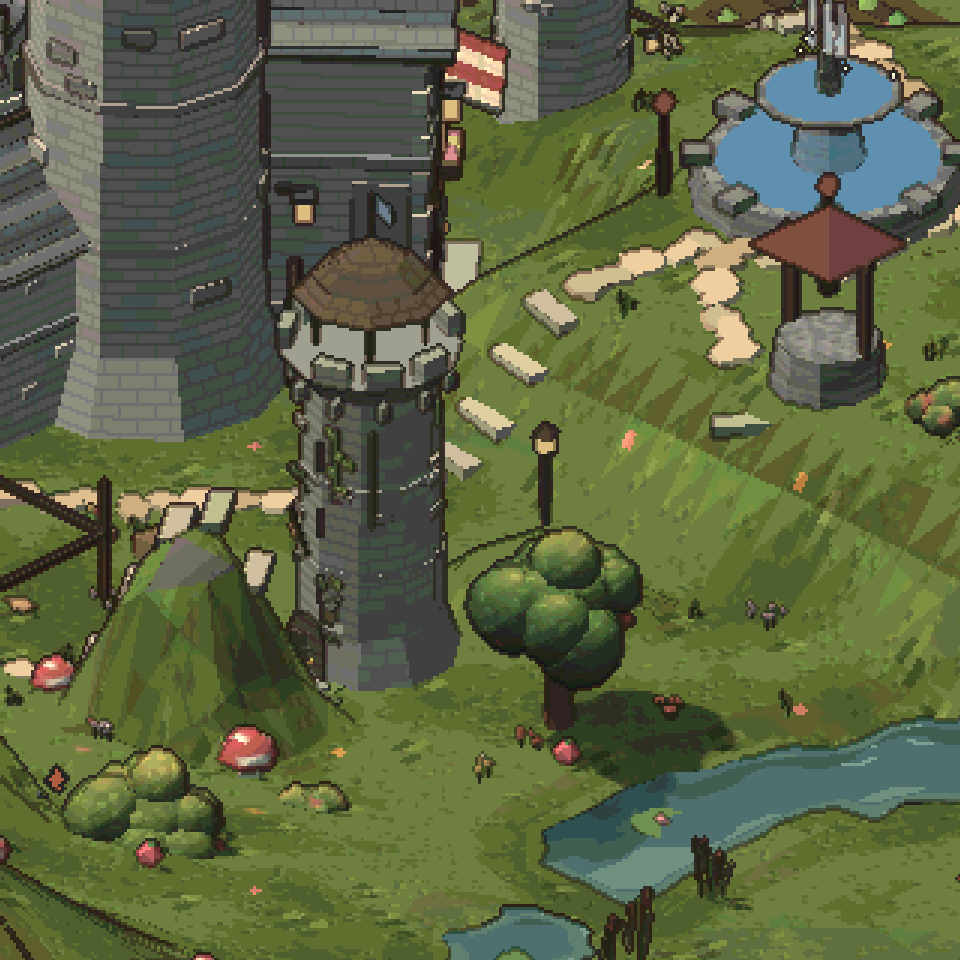
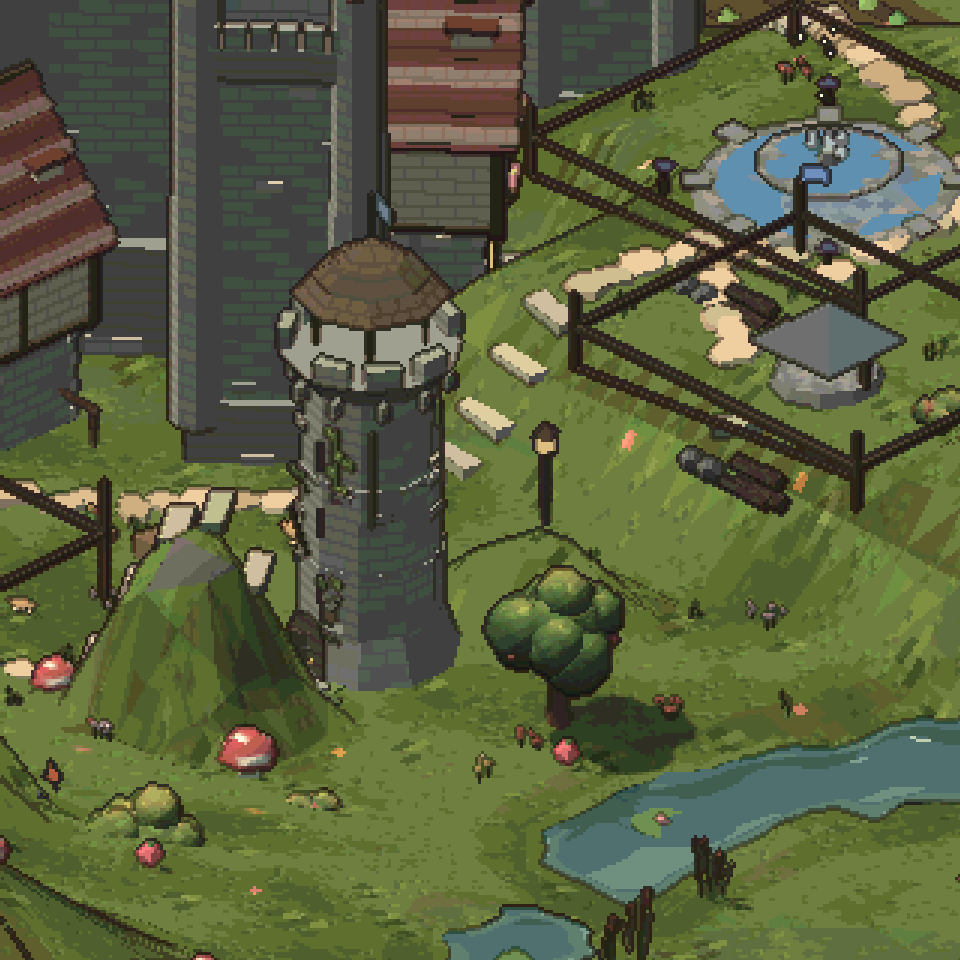
木を もう 一段 小さく（0.58）・城攻めの 体力ゲージ
Claude-Session: https://claude.ai/code/session_0123UptJxvfEXsQxns9cL3Y3

diff --git a/src/world/parts/ui.ts b/src/world/parts/ui.ts
@@ -728,7 +728,9 @@ export function starMark(this: World, x: number, y: number) {
 /** ボスの大きな HP バー（画面の上のまんなか）。ボスが出ている間だけ */
 export function drawBossBar(this: World) {
   const boss = this.creatures.find((c) => c.sp.boss && this.alive(c))
-  if (!boss) return
+  // 城攻めの 間は 敵の 城の 体力（ボスが いれば ボスが 先）
+  const sb = boss ? null : this.siegeBar()
+  if (!boss && !sb) return
   const g = this.hudCtx
   const w = 208
   const x = Math.round((RES.w - w) / 2)
@@ -737,9 +739,14 @@ export function drawBossBar(this: World) {
   g.fillRect(x, y, w, 25)
   g.strokeStyle = '#ff9a3a'
   g.strokeRect(x + 0.5, y + 0.5, w - 1, 24)
-  this.text(`ボス ${this.nm(boss)}`, x + 8, y + 3, '#ffd0a0', 10)
-  this.text(`${Math.max(0, Math.ceil(boss.hp))}/${boss.maxHp}`, x + w - 8, y + 4, '#ffffff', 8, 'right')
-  const r = Math.max(0, Math.min(1, boss.hp / boss.maxHp))
+  if (boss) {
+    this.text(`ボス ${this.nm(boss)}`, x + 8, y + 3, '#ffd0a0', 10)
+    this.text(`${Math.max(0, Math.ceil(boss.hp))}/${boss.maxHp}`, x + w - 8, y + 4, '#ffffff', 8, 'right')
+  } else {
+    this.text('てきの しろ', x + 8, y + 3, '#ffd0a0', 10)
+    this.text(`${Math.ceil(sb!.k * 100)}%`, x + w - 8, y + 4, '#ffffff', 8, 'right')
+  }
+  const r = boss ? Math.max(0, Math.min(1, boss.hp / boss.maxHp)) : sb!.k
   g.fillStyle = '#10122a'
   g.fillRect(x + 6, y + 15, w - 12, 7)
   g.fillStyle = '#3a2030'

diff --git a/src/world/flora.ts b/src/world/flora.ts
@@ -10,7 +10,7 @@ import { swayify } from './fxprops'
  * kind：round = まるい木 / bloom = 花の咲く木 / conifer = 針葉樹 / bush = しげみ（花つき）
  */
 /** 木 ぜんたいの 大きさ（1 = 2026-11-16 までの 大きさ） */
-export const TREE_SCALE = 0.72
+export const TREE_SCALE = 0.58
 export type TreeKind = 'round' | 'bloom' | 'conifer' | 'bush'
 
 /** 色の組（暗い → 明るい の 3 色 + 花の色）。ステージごとに かえられる */

diff --git a/CLAUDE.md b/CLAUDE.md
@@ -115,7 +115,7 @@ Three.js + TypeScript + Vite + vite-plugin-pwa。机の上に浮かぶ 3D の本
 - データの書き出し・読み込み・やり直しは `src/backup.ts`（コードは `PULSAR1:` + base64 の JSON）。設定のキーを増やしたら `KEYS` にも足す。読み込み・やり直しの前は `world.saveLocked = true` にして上書きを防ぐ。起動時に `navigator.storage.persist()` を頼む
 - **音**：音声ファイルは使わず全部 WebAudio。BGM は `music.ts` が `World.musicState()`（`night / weather / stage / army / villageLv`）+ 本体側の夕方フラグから曲を選び、変わるとクロスフェード（昼・夕・夜・敵軍・天気ごとのアレンジ、ステージごとの調と音色は `STAGE_MUSIC`。ステージを足したら表に 1 行。表にない番号は 0 番）。勝利 `victory` / 世代交代 `generation` は短い曲（BGM が切れていれば効果音）。効果音は `main.ts` の `SFX` 表 + `SFX_GAP`（同じ音のレート制限）。「音」ボタンはマスター音量、きせかえの「おと」で BGM / 効果音を別々に入り切り（`pulsar-bgm` / `pulsar-sfx`、`backup.ts` の `KEYS` にも入っている）。最初のタップ・キーのあとに始まり、タブが裏に回ると止まる。曲の確認は `__pulsar.renderMusic(state, 秒)`（OfflineAudioContext で書き出す）
 - **ドットの 感じ（2026-11-16）**：箱庭は 320×320 で 描いて 3 倍に のばす。光を うける 面には 世界の 位置で きまる 明暗の つぶ（`psx.ts` の `uGrain`：0.07 マスの 点 + 0.21 マスの むら。ジオラマで 描く 間だけ 1）。地面は なめらかな 法線（三角ごとの つぎはぎを 出さない）・面ごとの 色の ゆらぎは 小さく。草と 砂の 模様は 昔の デジタルの 格子線を やめ、`clumps()`（こい / うすい かたまり）+ `tufts()`（草の 穂）+ 小さな 花。仕上げは 色数 16 段・すこし 暗く くすむ・輪郭を こく。いぬの 3D は なめらかな 面（角ばった 面は 模型に 見えた）
-- **絵の 質感は 平らな 塗りと 手描きの 線（2026-11-17・見本は 明るい ドット絵の 町の 動画）**：カメラ・色・町の 作りは そのままで 質感だけ かえた。物の 面の 細かい つぶ（`uGrain`）は 0、減色の 網点（`bayer4`）は 使わない（四捨五入で 16 段・ぬけた 明るい 点の ぶん 1.045 倍）。輪郭は 物の まわりを こげ茶の 線（`mix(c * 0.35, #2b1c14, 0.55)`）、深さの 折れ目（2 回 微分 > `e × 0.22`）に うすい 線（屋根の 棟・かべと 屋根の さかい）。手続きテクスチャは ミップマップで ならす（小さく 見える 時の ひっかき傷の 筋を 消す）。草地の 色は 三角ごとの ばらつきを やめ、場所で きまる 大きな むら（`terrain()`）。くらべた 絵は `docs/media/texture-before-after.png` / `texture-cats.png`。上の「ドットの 感じ」の つぶと 網点は この 時に やめた。**描きこみ**（同じ日・きれいな 動画で 見なおして）：見本は 面も ドットで 描きこんで ある ので、建物の 材質（`sharedLam` = `psx(…, { build: true })`）に 世界の 位置で きまる 模様 `PATTERN`（`psx.ts`）：かべ = れんが / 板の 段（目地 0.17 マス・つなぎ目 互いちがい・段ごとの 色の ゆらぎ）/ 屋根 = かわらの 段（0.14 マス・下の ふち 暗く 上 明るく）。線の 太さは `fwidth` で 1 ドット 以上。ジオラマで 描く 間だけ（`toonU.uPat`）。地面は 草の 穂の ドット（0.075 マスの 升目で まばらに 明るい 穂と その 下の こい 根もと・画質「低」は なし）。絵は `docs/media/texture-bricks.png` / `texture-tufts.png`。**木も ポリゴン感を なくした**（同じ日）：`flora.ts` の `Builder.add(…, 'blob' | 'cone', soft)` は 面ごとの 色を やめ、かたまりを 球（針葉樹は 円すい）と して 法線と 頂点の 色を きめる（なめらかな 陰・左上が 明るい）。表面は 向きで きまる でこぼこ（12%）で ふちの 直線を くずす。まんなかの 大きな かたまりは 分割 2。花は 位置の ハッシュで 頂点ごとに（面の 形が 出ない）。葉の 材質は `psx(…, { leaf: true })` の `LEAF`（`psx.ts`）：0.2 マスの 3D の 点の 集まりで 葉の 房に わけ、房の 上は 明るく・下は 暗く・さかいに かげの 線。置き物の「なえ」が そだった 木も `leaves()` で 同じ 葉に。絵は `docs/media/trees-leafy.png`。木 ぜんたいは `TREE_SCALE`（0.72）で 小さめに（`tree()` は 外の 箱を 返し、中の 箱に 縮尺。呼ぶ 側が `add` する 木の実は 中の 箱に 入る。絵は `docs/media/trees-small.png`）
+- **絵の 質感は 平らな 塗りと 手描きの 線（2026-11-17・見本は 明るい ドット絵の 町の 動画）**：カメラ・色・町の 作りは そのままで 質感だけ かえた。物の 面の 細かい つぶ（`uGrain`）は 0、減色の 網点（`bayer4`）は 使わない（四捨五入で 16 段・ぬけた 明るい 点の ぶん 1.045 倍）。輪郭は 物の まわりを こげ茶の 線（`mix(c * 0.35, #2b1c14, 0.55)`）、深さの 折れ目（2 回 微分 > `e × 0.22`）に うすい 線（屋根の 棟・かべと 屋根の さかい）。手続きテクスチャは ミップマップで ならす（小さく 見える 時の ひっかき傷の 筋を 消す）。草地の 色は 三角ごとの ばらつきを やめ、場所で きまる 大きな むら（`terrain()`）。くらべた 絵は `docs/media/texture-before-after.png` / `texture-cats.png`。上の「ドットの 感じ」の つぶと 網点は この 時に やめた。**描きこみ**（同じ日・きれいな 動画で 見なおして）：見本は 面も ドットで 描きこんで ある ので、建物の 材質（`sharedLam` = `psx(…, { build: true })`）に 世界の 位置で きまる 模様 `PATTERN`（`psx.ts`）：かべ = れんが / 板の 段（目地 0.17 マス・つなぎ目 互いちがい・段ごとの 色の ゆらぎ）/ 屋根 = かわらの 段（0.14 マス・下の ふち 暗く 上 明るく）。線の 太さは `fwidth` で 1 ドット 以上。ジオラマで 描く 間だけ（`toonU.uPat`）。地面は 草の 穂の ドット（0.075 マスの 升目で まばらに 明るい 穂と その 下の こい 根もと・画質「低」は なし）。絵は `docs/media/texture-bricks.png` / `texture-tufts.png`。**木も ポリゴン感を なくした**（同じ日）：`flora.ts` の `Builder.add(…, 'blob' | 'cone', soft)` は 面ごとの 色を やめ、かたまりを 球（針葉樹は 円すい）と して 法線と 頂点の 色を きめる（なめらかな 陰・左上が 明るい）。表面は 向きで きまる でこぼこ（12%）で ふちの 直線を くずす。まんなかの 大きな かたまりは 分割 2。花は 位置の ハッシュで 頂点ごとに（面の 形が 出ない）。葉の 材質は `psx(…, { leaf: true })` の `LEAF`（`psx.ts`）：0.2 マスの 3D の 点の 集まりで 葉の 房に わけ、房の 上は 明るく・下は 暗く・さかいに かげの 線。置き物の「なえ」が そだった 木も `leaves()` で 同じ 葉に。絵は `docs/media/trees-leafy.png`。木 ぜんたいは `TREE_SCALE`（0.58）で 小さめに（`tree()` は 外の 箱を 返し、中の 箱に 縮尺。呼ぶ 側が `add` する 木の実は 中の 箱に 入る。絵は `docs/media/trees-small.png`）
 - **夜の 光だまりと 町の 小物（2026-11-16）**：`updateLightPools()`（`parts/update.ts`）が 1 秒ごとに 見ている 所に 近い 光の 元（城の まわり 4 か所・街灯 = `decor.userData.lamps`・ごはんや・いちば・みはりとう・とりで）を えらび、点の 光（`World.pools`・高 6 / 低 2・数は かえない）を 置く。夜・雨・ひのこで ともる（ゆらめき あり）。ランタンと たき火は 置き物が 自分の 光を もつ。**かざり**（`decor.ts`）は 城も 節（`house: true`・大きい 城は 小物 12・街灯を 先に）に して、町の まわりに 花の かたまり（kind 6）と 草の 株（kind 7）を ちらす（城 26 / 建物 5・画質「低」は 半分）。かざりの 作りなおしの 目じるしに 城の 大きさも 入れた
 - **木の 葉は かたまりごとに 1 ドット ゆれる（2026-11-16・ドット絵の 森の 作り方）**：`flora.ts` の `Builder.add(…, [位相, 大きさ])` が 葉の かたまりごとに 頂点の 属性 `aClump` を 入れ、葉の 材質は `psx(…, { clump: true })`。`fx.ts` の `CLUMP_BODY`（SpriteCook の 記事「pixel art trees move in the wind」の 考え方）：幹は うごかさない（`swayify(g, 0)`）。かたまりは ドット単位で「とまる → 上 → 右上 → 右 → もどる」の ループ（1 周 1.54 秒・位相は 風に そった 位置 / 69 ドット = 波が 木から 木へ わたる）。風は 地図を よこぎる 3 つの 突風（20 秒の くりかえし・天気の 風 `uWind` で つよく）で、突風の 外は ほぼ とまる・中は 2〜3 ドットに ひろがり 風下へ かたむく。ポーズを かえるのは 1 秒に 10 回。`aClump.y` = まんなか 0.35 〜 そと 1（針葉樹は 上の 段ほど 大きい）。1 ドット ≒ 0.05 マス・画質「低」は なし。葉の 色は 4 色（下 = 深い 青緑の かげ / 上 = 日の あたる 黄みどり）
 - **水べ（2026-11-16・SpriteCook の 記事「pixel art pond with reflections and ripples」の 考え方）**：`src/world/pond.ts` の `bakePond()` が ステージを 読む 時に 1 回、0.5 マスの 升目の テクスチャ（`fxU.uPond`）を 焼く：R = 岸からの 距離（水 ＋ / 陸 −）・G / B = 木（`tree()` の `userData.tree`）の 葉の 上と 下の 高さ・A = 池や 川 / 海。水の かたちは ステージの 水面（`waterSurface()` の 材質の `userData.water`）と `heightAt` から 決め、丸い 水面は かくして 升目から ひとつづきの 水面 `pond-water` を 作る（坂の 川の 継ぎ目が 消える）。`waterSurface()` は 10 色の 組（`RAMP_POND` / `RAMP_SEA`）から えらぶだけで 色を まぜない：深さ（岸から 遠いほど 暗い）・空の 光（奥の 岸から 手前へ 明るく）・木の 映りこみ（カメラと 反対へ 30 歩 たどり、葉に あたれば 暗い 3 段・行ごとに 1 ドット ゆれる）・奥の 岸の 暗い 線と 草の 映り・手前の 岸の 浅い 色と 打ちよせる 点線（ふち ぜんぶは 光らせない）・きらめき（のびて ちぢむ 横線）・水てきの 輪（5 コマ）・雨の 波紋。ドットは 世界に はりついた 画面の 格子（`viewMatrix` と 投影から）、ループは 5 秒。岸の 形は 焼いた 距離 − ゆらぎで `discard`（地形の 三角で まっすぐに ならない）。地面は 水の 中の 頂点を 0.1 下げ（`fx.ts`）、岸から 0.5 マスは ぬれて 暗い。岸に あし（がまの ほ）・池に はすの 葉（`shoreProps()`・海べは なし・画質「低」は 半分）。絵は `docs/media/pond-water.png` / `pond-river.png` / `pond-rain.png`
@@ -123,7 +123,7 @@ Three.js + TypeScript + Vite + vite-plugin-pwa。机の上に浮かぶ 3D の本
 - **キャラを 3D に する ためし（2026-11-16）**：建物と 同じ「角ばった 低ポリを ドット化」で 絵を そろえる 方針（参考に した 動画は 夜の 農家の ドット絵：キャラも 建物も 同じ 3D を ドット化・光だまり・小物が 多い）。まず いぬの 1 本道 ワンコ → キバル → ガルフ → ロウガ（`families.ts` の EVOLVE を 上書き・フワン / マモールは 古い セーブだけ）を `models.ts` の `pupBlob()` / `dogRig(k, Dog)`（`Kit.flat` = 面ごとの 陰・`ico()` = 角ばった 玉。体・頭・口さき・耳・くびわ / スカーフ・たてがみ・完成期の けっしょうと よろい・しっぽと 耳と 頭の うごき）で 作り、`ALWAYS_3D` の 種族は せっていに 関係なく 3D（`makeView`）。ライトと 影は 建物と 同じに かかる。**ねこ**（ミミコ `kittenBlob()` → ツメル → トラヒメ → ネコマタ = `catRig(k, Cat)`：まるい 頭・三角の 耳・しま・ほおの 毛・しなる しっぽ `chain()`・ネコマタは 2 本の しっぽの 先に ひとだま）と **モンスター**（ガブコ `ghostBlob()` → オニコ → オガラン = `oniRig(k, Oni)`：二足・うで・つの・あばれ髪・とらがらの こし・よろいと とげの かなぼう → ヤマタン `hydraRig()`：うかぶ 体・3 つの 首・こうもりの はね）も 1 本道で 3D（ヨルナ / ツキネコ / ヌラリ / バケランは 古い セーブだけ。絵は `docs/media/cat3d.png` / `monster3d.png`）。とり・りゅう・きかい・みずは まだ ドット絵
 - **画面に 入った 時の まわり（2026-11-15）**：液晶の 中の アイコン列・コイン・天気・村の 名前・メッセージ欄は 描かない（`World.hudLite`、`setMode('inside')` で 入る。タップの アイコン列も 止める）。かわりに まわりの 黒い 所に HTML：`#side-stat`（天気・コイン・町・拠点の 数）・`#side-log`（できごとの ログ 8 行・新しい 3 行が こい）・`.act-bar`（ショップ / ようす / よびだす = `world.run(5/3/7)`）・カメラ。A/B/C の ボタンは 出さない（キーは 使える）。たて長は 液晶の 上に ようす・下に ログと ボタン、よこ長は 左に ようすと ログ・右下に ボタン。ログの 色分けは `msgKind()`（文の はじめの 名前 = ニックネームで じぶん 金 / なかま 緑 / てき 赤（「てき」「せめて」など も）/ まち 灰）、`World.onLog` で main.ts へ。本体ビュー（液晶の 中）は 今までどおり。**ニックネーム**：ペットと なかまは なかまに なった 時・生まれた 時に `giveNick()`（カタカナ 2〜3 音・かぶらない・セーブ `nick`）。メッセージの 名前は `nm(c)`（ニックネーム、無ければ 種族名・色ちがいは ★）、情報ウィンドウは「ニックネーム（種族）」
 - **戦争（2026-11-15・ぜんぶ 自動）**：`src/world/parts/war.ts`。大きな世界の 味方の 森と 敵の いせきの ほかの 7 地方の まんなか（`Stage.tiles`）に 拠点 `Outpost`（石の 台・くいの さく・旗 = 青 味方 / 赤 敵 / 灰 だれのでもない。`mountOutpost()`）。はじめは その 地方の 敵（`regionResidents`）が まもる。`updateWar()`（1 秒ごと）：味方は 100〜160 秒ごとに おとな（成長期から・ペットの ほか・体力 6 わり）が 3 匹 いれば 強い 順に 5 匹まで（1 匹は のこす）を 部隊（`Creature.squad` = 拠点の 番号）に、敵は 150〜220 秒ごと（はじめは 6 分後）に 敵の 城の 大きさで 2〜（生きている 部隊 10 まで）を 敵の 城の そばに 出す（`squadFoe`）。ねらうのは 自分の 陣地（城の 地方 + とった 拠点）の となりの 拠点で 近い 順。部隊は `squadThink()`（think の 頭）で とちゅう 7 マスの 敵と たたかい・`campaign` 状態で 拠点へ。拠点の 4 マスに 相手（味方には 野生の 敵ぜんぶ・敵には 味方）が いない まま 部隊が いると 15 秒（人数で 速く）で とれる。味方の 部隊は とったら・弱ったら・おなかが すいたら 帰る。めぐみ：60 秒ごとに 味方の 拠点 1 つで 町の そばに 資材と 食べ物・その 地方の 系統の 子が ひっこしてくる（`ownedFamilies()`）／敵の 拠点は 敵の 城を 育てる。町の まんなかの 情報に `warLine()`。セーブは `outposts`（地方の 番号 → 持ち主）。敵襲（`this.army`）の 間は 部隊を 出さない
-- **戦争の 決着（2026-11-17・`parts/war.ts` の 後ろ半分）**：敵の 城を 攻め落とすと 勝ち・味方の 負けは 無い。**城攻め**：敵の 城の となりの 拠点（か 昔の 敵の 町）を 味方が もち、敵の 城が 3 部屋 以上（`siegeReady()`）の 時、部隊を 出す 番で 6 わり（ほかに ねらう 拠点が 無ければ 必ず）は 6 匹までを `Creature.squad = SIEGE`（99）に。`siegeThink()`：とちゅう 6 マスの 敵と たたかい → 城の かべの 手前で `siege` 状態（とびはねて たたく・火花）。`updateSiege()`（1 秒ごと）：たたいている 子の 攻撃力 × 0.45 を `World.siegeHp` から 引く（最大 `siegeMax` = 350 + 部屋 × 110・だれも 攻めないと ゆっくり なおる）。攻められて いる 間 敵は 12 秒ごとに 2 匹の 守り（`squad = DEFEND` 98・8 匹まで）。4 分の 3・半分・4 分の 1 で 知らせる。**勝ち** `conquer()`：敵の 城と へいは `World.freed`（`Freed`：場所・時代・部屋・輪）に うつり 味方の 町と して のこる（`mountKeep` / `mountWalls` が 描く・その 地方は 味方の 陣地）、敵の 部隊と 城の まわりの 敵は 消え、拠点は ぜんぶ 味方、コイン 150、`Stage.foeStart` を 無くして `warPeace` = 20 分の 平和。**つぎの 戦争** `newFoe()`：平和が おわると 味方の 町から いちばん 遠い 陸の 地方の 拠点が 新しい 敵の 城（`foeBase`・1 部屋から）に なる。セーブは `war`（`siege` / `max` / `peace` / `gone` / `base` / `freed`）、読む 時は `applyWarSave()` が `loadStage` で 敵の 城の 場所を 入れる。町の 情報の `warLine()` に 城攻めの のこり % と 平和の のこり 分。たしかめ方は スクラッチの siege.js（7 匹 + 敵 5 部屋で 2 分弱で 勝ち → 新しい 敵 → セーブ → 読みなおし）
+- **戦争の 決着（2026-11-17・`parts/war.ts` の 後ろ半分）**：敵の 城を 攻め落とすと 勝ち・味方の 負けは 無い。**城攻め**：敵の 城の となりの 拠点（か 昔の 敵の 町）を 味方が もち、敵の 城が 3 部屋 以上（`siegeReady()`）の 時、部隊を 出す 番で 6 わり（ほかに ねらう 拠点が 無ければ 必ず）は 6 匹までを `Creature.squad = SIEGE`（99）に。`siegeThink()`：とちゅう 6 マスの 敵と たたかい → 城の かべの 手前で `siege` 状態（とびはねて たたく・火花）。`updateSiege()`（1 秒ごと）：たたいている 子の 攻撃力 × 0.45 を `World.siegeHp` から 引く（最大 `siegeMax` = 350 + 部屋 × 110・だれも 攻めないと ゆっくり なおる）。攻められて いる 間 敵は 12 秒ごとに 2 匹の 守り（`squad = DEFEND` 98・8 匹まで）。4 分の 3・半分・4 分の 1 で 知らせる。**勝ち** `conquer()`：敵の 城と へいは `World.freed`（`Freed`：場所・時代・部屋・輪）に うつり 味方の 町と して のこる（`mountKeep` / `mountWalls` が 描く・その 地方は 味方の 陣地）、敵の 部隊と 城の まわりの 敵は 消え、拠点は ぜんぶ 味方、コイン 150、`Stage.foeStart` を 無くして `warPeace` = 20 分の 平和。**つぎの 戦争** `newFoe()`：平和が おわると 味方の 町から いちばん 遠い 陸の 地方の 拠点が 新しい 敵の 城（`foeBase`・1 部屋から）に なる。セーブは `war`（`siege` / `max` / `peace` / `gone` / `base` / `freed`）、読む 時は `applyWarSave()` が `loadStage` で 敵の 城の 場所を 入れる。町の 情報の `warLine()` に 城攻めの のこり % と 平和の のこり 分。城攻めの 間は 画面の 上に 敵の 城の 体力の ゲージ（`drawBossBar()` が `siegeBar()` を 見る・ボスが いれば ボスが 先。絵は `docs/media/war-siege-bar.png`）。たしかめ方は スクラッチの siege.js（7 匹 + 敵 5 部屋で 2 分弱で 勝ち → 新しい 敵 → セーブ → 読みなおし）
 - **使わない あそびを 外した（2026-11-15）**：おねがい（日替わり）・もくひょう・うんだめし・ひみつ・おふれ・住民の おねがいは `EXTRAS = false`（`World.ts`）で ゲームから 外した（ボタンは body の `no-extras` で かくす・ずかんの ひみつ欄は `.extras`・`updateRoad` / `updateSecrets` / `updateWish` / ひみつの 進化 / おふれの ボタンを 止める）。コードは のこしてあり、外す前の 形は `archive/extras` ブランチ。下の それぞれの 説明は EXTRAS を true に した 時の もの
 - **系統は 地方ごと（2026-11-15）**：`families.ts` の `REGION_FAMILY`（森 = いぬ・砂丘 = りゅう・入り江 = みず・雪原 = ねこ・回路峰 = きかい・かざん / いせき = モンスター）、大きな世界の 丘 = とり・海 = みず（`Stage.region().family`）。たまごは 落ちる 場所の 地方の 系統（`stageEggKind(x, z)`）。新しい ゲームは ペットと はじめの 2 匹が 森の 系統（いぬ）。ひっこしの 子は `settlerFamily()`（町の 地方 + 戦争で とった 地方 `ownedFamilies()`）
 - **カメラの なめらかさ・敵襲・発熱（2026-11-15）**：ジオラマの カメラは 1 ドットの 格子に 吸わせるが、吸わせた 分の ずれ（`DioramaLook.sub`）を 仕上げで 絵を ずらして 足す（ゆっくり 動いても カクカク しない）。引いた 時に 島の まんなかへ 寄せるのは 1 まいの 小さな 箱庭の「ついていく」だけ（大きな世界では すべって 見えた）。おまかせは ゆっくり 動きだして 止まる（`autoV`）・12〜18 秒ごと・町から 28 マスより 遠い できごとは 重み 3 から。**敵襲**：警告と 攻めてきた 時に `rallyAllies()`：おとなの なかまは 作業を やめて 城の 前の 敵の 来る 向き（`rallyPoint()`）に 集まり、40 マス いないの 敵軍を ねらう・こどもは 城に かくれる。**発熱**：1 秒に 描く 回数を 時間で しばる（せってい の「フレーム」= なめらか 60 / せつでん 30、`pulsar-fps`、タッチの 端末は せつでん が 最初。60 秒 さわらないと さらに 半分）
